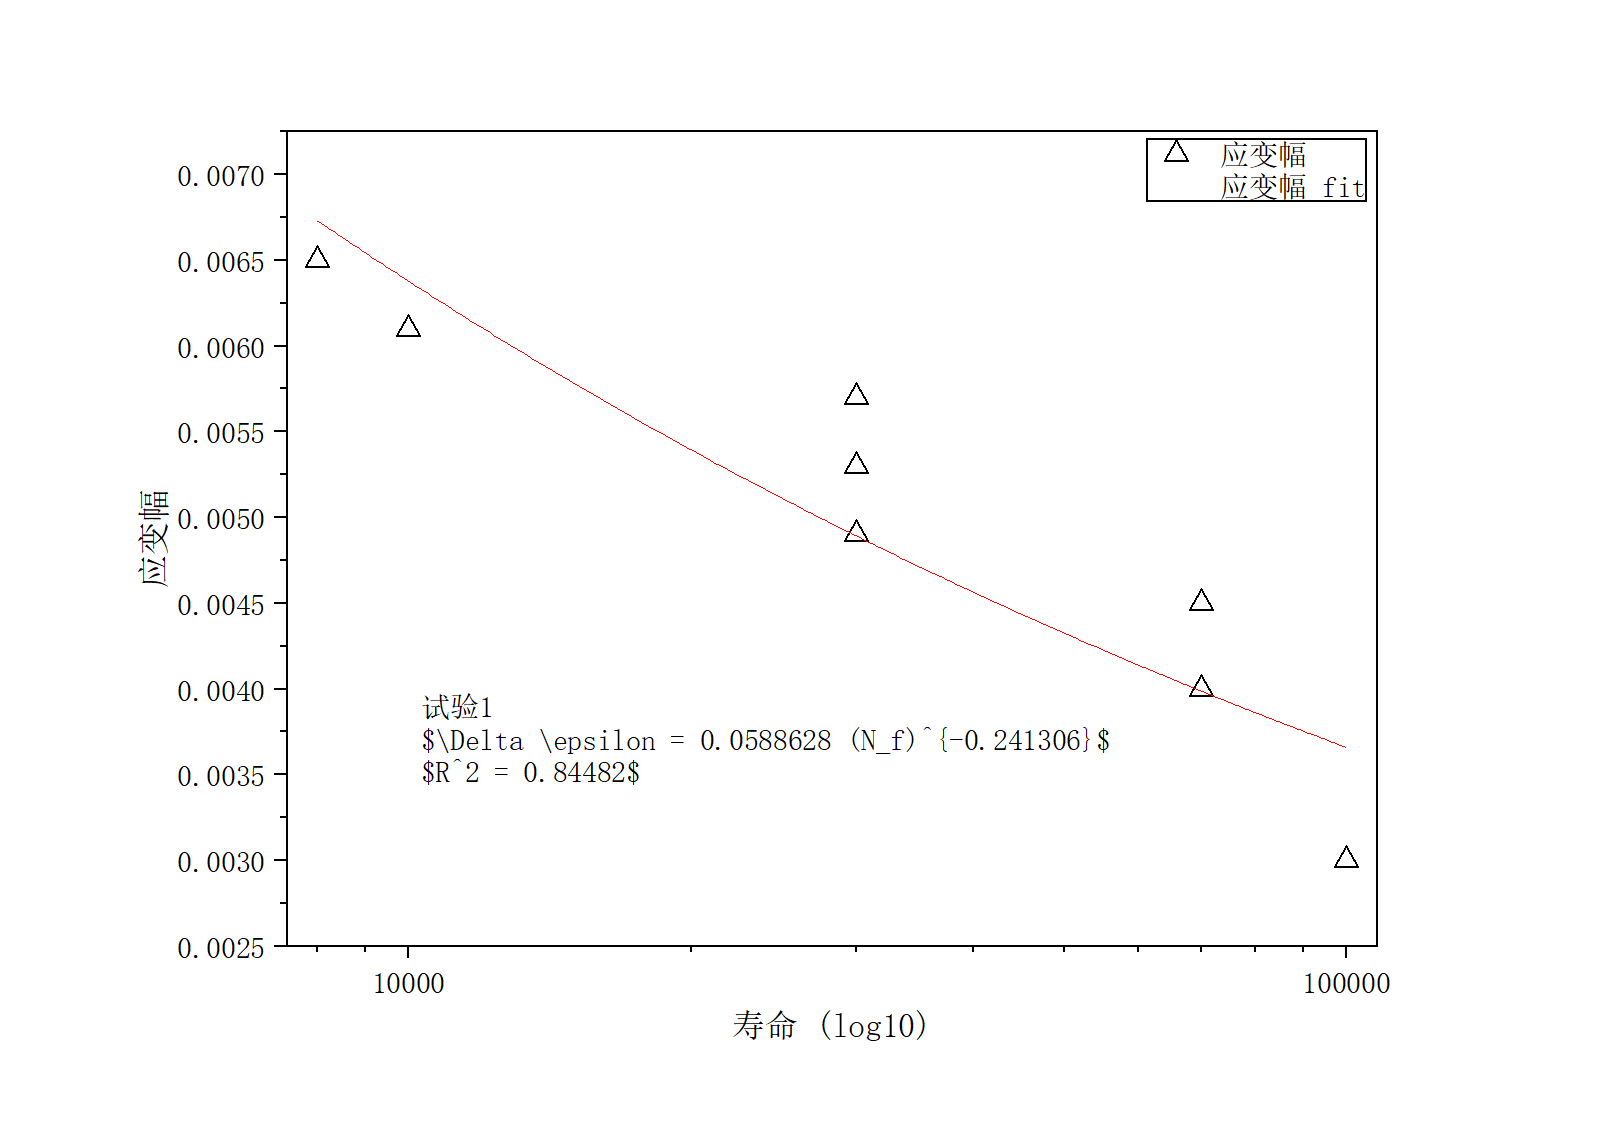
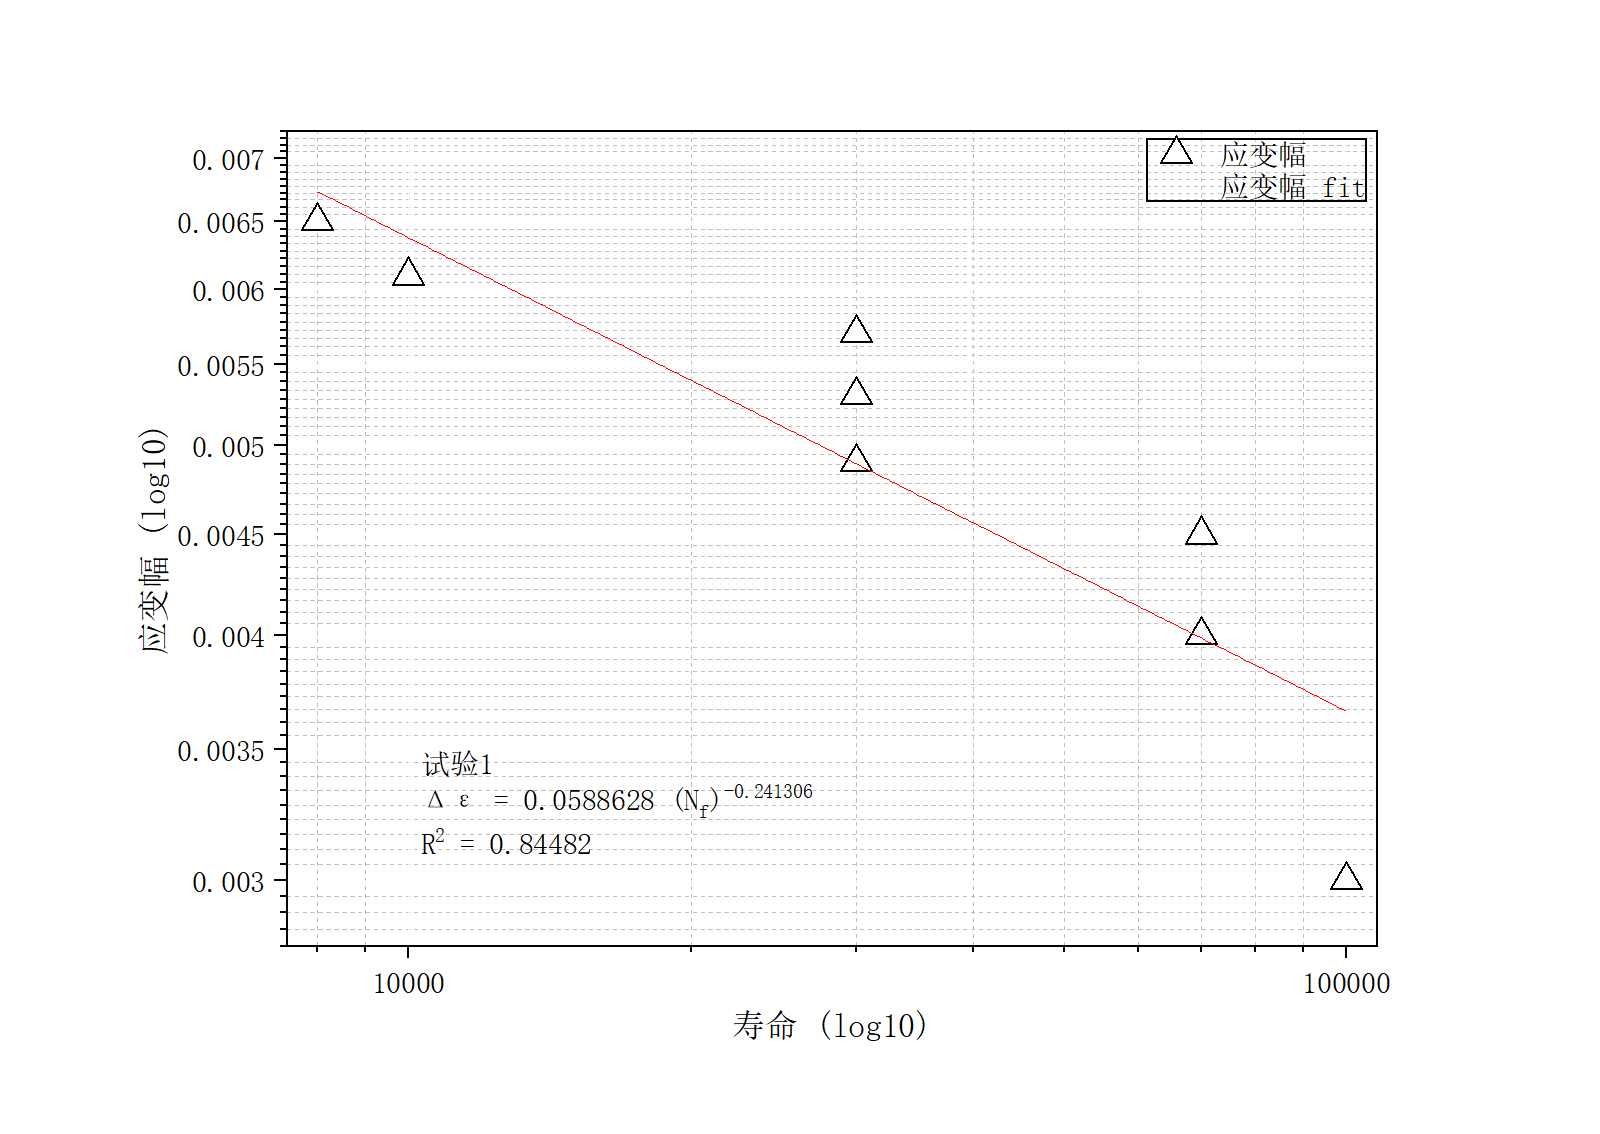
Render formulas and log-log fit lines

diff --git a/src/originnsfit/origin_client.py b/src/originnsfit/origin_client.py
@@ -58,14 +58,16 @@ class OriginClient:
 
         if data_plot is not None:
             data_plot.symbol_kind = symbol_kind
-            data_plot.symbol_size = 9
+            data_plot.symbol_size = 12
             data_plot.symbol_interior = 1
-            data_plot.set_cmd("-c 1")
+            data_plot.set_cmd("-c 1", "-w 2")
         if fit_plot is not None:
-            fit_plot.set_cmd("-c 2", "-w 2")
+            fit_plot.set_cmd("-c 2", "-w 3")
 
         layer.xscale = "log10"
+        layer.yscale = "log10"
         layer.rescale()
+        self._style_grid(layer)
         self._set_axis_labels(layer, life_column, response_column)
         self._add_formula_label(layer, fit, life_column, response_column, title)
 
@@ -83,7 +85,21 @@ class OriginClient:
             x_label.text = f"{life_column} (log10)"
         y_label = layer.label("yl")
         if y_label is not None:
-            y_label.text = response_column
+            y_label.text = f"{response_column} (log10)"
+
+    def _style_grid(self, layer) -> None:
+        layer.lt_exec(
+            "layer.x.grid.show=3;"
+            "layer.y.grid.show=3;"
+            "layer.x.grid.majorcolor=18;"
+            "layer.y.grid.majorcolor=18;"
+            "layer.x.grid.minorcolor=19;"
+            "layer.y.grid.minorcolor=19;"
+            "layer.x.grid.majorstyle=2;"
+            "layer.y.grid.majorstyle=2;"
+            "layer.x.grid.minorstyle=3;"
+            "layer.y.grid.minorstyle=3"
+        )
 
     def _add_formula_label(
         self,
@@ -93,24 +109,29 @@ class OriginClient:
         response_column: str,
         title: str,
     ) -> None:
-        text = (
-            f"{title}\n"
-            f"$\\Delta \\epsilon = {fit.result.coefficient_a:.6g} "
-            f"(N_f)^{{{fit.result.coefficient_b:.6g}}}$\n"
-            f"$R^2 = {fit.result.r2:.5f}$"
-        )
+        text = self._origin_formula_text(title, fit)
         x_position = 10 ** (
             0.9 * self._safe_log10(fit.result.life_min)
             + 0.1 * self._safe_log10(fit.result.life_max)
         )
-        y_position = fit.result.response_min + 0.28 * (
-            fit.result.response_max - fit.result.response_min
+        y_position = 10 ** (
+            0.8 * self._safe_log10(fit.result.response_min)
+            + 0.2 * self._safe_log10(fit.result.response_max)
         )
         label = layer.add_label(text, x_position, y_position)
         if label is not None:
+            label.set_int("verbatim", 0)
             label.set_int("attach", 2)
             label.set_float("x1", x_position)
             label.set_float("y1", y_position)
+
+    def _origin_formula_text(self, title: str, fit: SNCurveFit) -> str:
+        return (
+            f"{title}\n"
+            f"\\x(0394)\\x(03B5) = {fit.result.coefficient_a:.6g} "
+            f"(N\\-(f))\\+({fit.result.coefficient_b:.6g})\n"
+            f"R\\+(2) = {fit.result.r2:.5f}"
+        )
 
     @staticmethod
     def _safe_log10(value: float) -> float:

diff --git a/src/originnsfit/cli.py b/src/originnsfit/cli.py
@@ -53,6 +53,7 @@ def main(argv: list[str] | None = None) -> int:
 
     summaries: list[dict[str, object]] = []
     curves: list[pd.DataFrame] = []
+    lines: list[dict[str, object]] = []
     plot_jobs: list[dict[str, object]] = []
 
     for path in files:
@@ -71,6 +72,22 @@ def main(argv: list[str] | None = None) -> int:
             curve.insert(1, "sheet", table.sheet or "")
             curve.insert(2, "group", table.group or "")
             curves.append(curve)
+            lines.append(
+                {
+                    "file": str(path),
+                    "sheet": table.sheet or "",
+                    "group": table.group or "",
+                    "life_column": life_column,
+                    "response_column": response_column,
+                    "log10_intercept": fit.result.log10_intercept,
+                    "log10_slope": fit.result.log10_slope,
+                    "log10_formula": fit.result.log10_formula,
+                    "life_start": fit.result.life_min,
+                    "response_start": fit.result.fit_response_at_life_min,
+                    "life_end": fit.result.life_max,
+                    "response_end": fit.result.fit_response_at_life_max,
+                }
+            )
 
             summary_index = len(summaries)
             summaries.append(
@@ -84,13 +101,18 @@ def main(argv: list[str] | None = None) -> int:
                     "model": "response = a * life^b",
                     "coefficient_a": fit.result.coefficient_a,
                     "coefficient_b": fit.result.coefficient_b,
+                    "log10_intercept": fit.result.log10_intercept,
+                    "log10_slope": fit.result.log10_slope,
                     "r2": fit.result.r2,
                     "rmse": fit.result.rmse,
                     "life_min": fit.result.life_min,
                     "life_max": fit.result.life_max,
+                    "fit_response_at_life_min": fit.result.fit_response_at_life_min,
+                    "fit_response_at_life_max": fit.result.fit_response_at_life_max,
                     "response_min": fit.result.response_min,
                     "response_max": fit.result.response_max,
                     "formula": fit.result.formula,
+                    "log10_formula": fit.result.log10_formula,
                     "figure": "",
                 }
             )
@@ -134,9 +156,12 @@ def main(argv: list[str] | None = None) -> int:
     curves_path = output_dir / "fit_curves.csv"
     if curves:
         pd.concat(curves, ignore_index=True).to_csv(curves_path, index=False, encoding="utf-8-sig")
+    lines_path = output_dir / "fit_lines.csv"
+    pd.DataFrame(lines).to_csv(lines_path, index=False, encoding="utf-8-sig")
     print(f"Wrote {summary_path}")
     if curves:
         print(f"Wrote {curves_path}")
+    print(f"Wrote {lines_path}")
     return 0
 
 

diff --git a/src/originnsfit/fitting.py b/src/originnsfit/fitting.py
@@ -11,14 +11,19 @@ from scipy.optimize import curve_fit
 class SNCurveFitResult:
     coefficient_a: float
     coefficient_b: float
+    log10_intercept: float
+    log10_slope: float
     r2: float
     rmse: float
     points: int
     life_min: float
     life_max: float
+    fit_response_at_life_min: float
+    fit_response_at_life_max: float
     response_min: float
     response_max: float
     formula: str
+    log10_formula: str
 
 
 @dataclass(frozen=True)
@@ -65,6 +70,8 @@ def fit_sn_power_law(
     )
     coefficient_a = float(coefficients[0])
     coefficient_b = float(coefficients[1])
+    log10_intercept = float(np.log10(coefficient_a))
+    log10_slope = coefficient_b
 
     predicted = sn_power_law_model(life, coefficient_a, coefficient_b)
     residual_sum = float(np.sum((response - predicted) ** 2))
@@ -75,23 +82,34 @@ def fit_sn_power_law(
     life_fit = np.logspace(np.log10(life.min()), np.log10(life.max()), fit_points)
     response_fit = sn_power_law_model(life_fit, coefficient_a, coefficient_b)
     formula = f"\\Delta \\epsilon = {coefficient_a:.6g} (N_f)^{{{coefficient_b:.6g}}}"
+    log10_formula = (
+        f"log10({response_column}) = {log10_intercept:.6g} "
+        f"+ {log10_slope:.6g} * log10({life_column})"
+    )
 
     curve = pd.DataFrame(
         {
             life_column: life_fit,
             response_column: response_fit,
+            f"log10_{life_column}": np.log10(life_fit),
+            f"log10_{response_column}": np.log10(response_fit),
         }
     )
     result = SNCurveFitResult(
         coefficient_a=coefficient_a,
         coefficient_b=coefficient_b,
+        log10_intercept=log10_intercept,
+        log10_slope=log10_slope,
         r2=float(r2),
         rmse=rmse,
         points=int(len(data)),
         life_min=float(life.min()),
         life_max=float(life.max()),
+        fit_response_at_life_min=float(response_fit[0]),
+        fit_response_at_life_max=float(response_fit[-1]),
         response_min=float(response.min()),
         response_max=float(response.max()),
         formula=formula,
+        log10_formula=log10_formula,
     )
     return SNCurveFit(result=result, data=data, curve=curve)

diff --git a/README.md b/README.md
@@ -15,6 +15,7 @@ response = a * life^b
 ```
 
 其中 `life` 默认识别为 `寿命` 列，`response` 默认识别为 `应变幅` 或 `应力幅` 列。横坐标在 Origin 图中使用 `log10` 对数坐标。
+为让幂律拟合线在图中呈直线，纵坐标也使用 `log10` 对数坐标。
 
 ## 效果图
 
@@ -63,6 +64,7 @@ python -m venv .venv
 ```text
 output/fit_summary.csv    每组拟合系数、R2、RMSE、公式和图片路径
 output/fit_curves.csv     每组拟合曲线采样点
+output/fit_lines.csv      log-log 直线斜率、截距和端点
 ```
 
 ## Origin 绘图
@@ -82,9 +84,10 @@ output/figures/
 图中包含：
 
 - 原始数据点，默认三角符号。
-- 幂律拟合曲线。
+- 幂律拟合线，log-log 坐标中显示为直线。
 - 代入拟合系数后的公式和 R2。
-- `log10` 寿命横坐标。
+- `log10` 寿命横坐标和 `log10` 响应纵坐标。
+- 主/次网格线。
 
 如果列名不同，可以手动指定：
 

diff --git a/offline/README.md b/offline/README.md
@@ -50,6 +50,7 @@ python -m venv .venv
 ```text
 output\fit_summary.csv
 output\fit_curves.csv
+output\fit_lines.csv
 ```
 
 ## 真实连接 Origin
@@ -66,7 +67,7 @@ output\fit_curves.csv
 output\figures\
 ```
 
-图中包含三角形原始数据点、幂律拟合曲线、LaTeX 风格公式 `\Delta \epsilon = a (N_f)^b`、R2，以及 `log10` 寿命横坐标。
+图中包含三角形原始数据点、幂律拟合线、渲染后的 `\Delta \epsilon = a (N_f)^b` 公式、R2、主/次网格线，以及 `log10` 寿命横坐标和 `log10` 响应纵坐标。
 
 如果列名不同，可以手动指定：
 